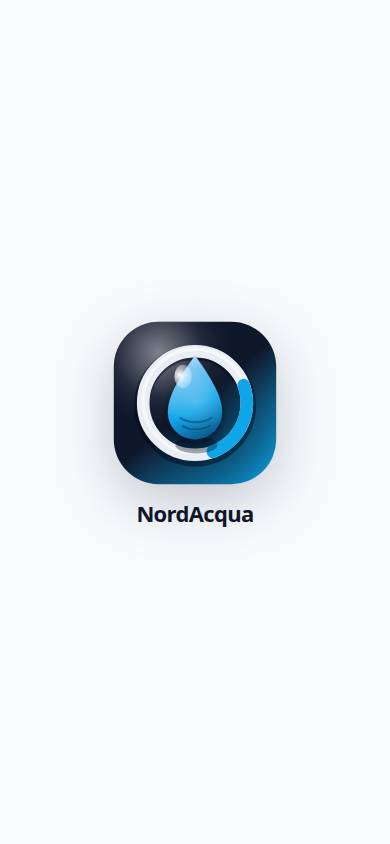
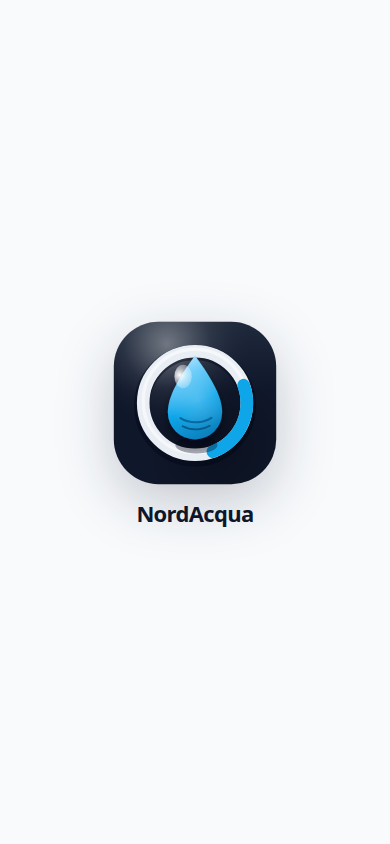
feat: punch v4 campo materials toward official water tokens
Richer sky wash, electric tank gloss, slate card shadows, navy mark plate, and recaptured apple-craft-v4 proofs. No main deploy.

diff --git a/src/lib/ai/compose-product.ts b/src/lib/ai/compose-product.ts
@@ -1129,10 +1129,11 @@ function productChromeCss(): string {
 .app-mark svg[data-fenix-premium-mark]{width:44px;height:44px;display:block}
 html[data-grammar="ops-desk"] .table-wrap thead th{background:color-mix(in srgb,var(--accent) 10%,var(--surface));color:var(--accent);font-weight:650}
 html[data-fenix-campo]{--navy:var(--inverse);--water:var(--brand);--ok-loud:var(--ok)}
-html[data-fenix-campo],html[data-fenix-campo] body{background:var(--surface-2);color:var(--on-surface)}
+html[data-fenix-campo],html[data-fenix-campo] body{background-color:var(--surface-2);background-image:radial-gradient(120% 56% at 50% -12%,var(--brand-soft) 0%,transparent 58%);color:var(--on-surface)}
 html[data-fenix-campo] header{position:sticky;top:0;z-index:6;padding:12px 16px 10px;background:color-mix(in srgb,var(--surface) 78%,transparent);-webkit-backdrop-filter:saturate(1.6) blur(16px);backdrop-filter:saturate(1.6) blur(16px)}
 html[data-fenix-campo]:has(nav.tabs button:first-child.on) header{display:none}
-html[data-fenix-campo] nav.tabs{background:color-mix(in srgb,var(--surface) 82%,transparent);-webkit-backdrop-filter:saturate(1.8) blur(18px);backdrop-filter:saturate(1.8) blur(18px)}
+html[data-fenix-campo] nav.tabs{background:color-mix(in srgb,var(--surface) 88%,transparent);border-top:1px solid var(--border,var(--line));box-shadow:0 -8px 24px rgba(15,23,42,.06);-webkit-backdrop-filter:saturate(1.8) blur(18px);backdrop-filter:saturate(1.8) blur(18px)}
+html[data-fenix-campo][data-grammar="phone-seed"] nav.tabs button.on{background:transparent;color:var(--brand);border-radius:0}
 html[data-fenix-campo] .home-hero{background:transparent;border:0;box-shadow:none;padding:0}
 html[data-fenix-campo] .home-aside,html[data-fenix-campo] .home-recent{display:none}
 html[data-fenix-campo] .home-count,html[data-fenix-campo] .home-hero>.btn{position:absolute;width:1px;height:1px;overflow:hidden;clip:rect(0 0 0 0)}
@@ -1143,25 +1144,26 @@ html[data-fenix-campo] .fx-role{margin:4px 0 0;font:500 var(--fx-t-14)/1.3 var(-
 html[data-fenix-campo] .fx-date{margin:0 0 16px;font:500 var(--fx-t-14)/1.3 var(--body),system-ui,sans-serif;color:color-mix(in srgb,var(--on-surface) 48%,#94a3b8)}
 html[data-fenix-campo] .fx-exit{width:40px;height:40px;border:0;border-radius:50%;background:var(--brand-soft);color:var(--brand-2);display:grid;place-items:center;flex:0 0 40px}
 html[data-fenix-campo] .fx-exit svg{width:18px;height:18px}
-html[data-fenix-campo] .fx-inverse{margin:0 0 12px;padding:16px 16px 14px;border-radius:var(--fx-r3);background:var(--inverse);color:#f8fafc;box-shadow:var(--shadow-card)}
-html[data-fenix-campo] .fx-hero{box-shadow:var(--shadow-float);background:linear-gradient(180deg,color-mix(in srgb,#1e293b 52%,var(--inverse)) 0%,var(--inverse) 32%)}
+html[data-fenix-campo] .fx-inverse{margin:0 0 12px;padding:18px 16px 16px;border-radius:24px;background:var(--inverse);color:#f8fafc;box-shadow:var(--shadow-card),inset 0 1px 0 rgba(255,255,255,.08)}
+html[data-fenix-campo] .fx-hero{box-shadow:var(--shadow-float),inset 0 1px 0 rgba(255,255,255,.1);background:linear-gradient(180deg,color-mix(in srgb,#1e293b 42%,var(--inverse)) 0%,var(--inverse) 36%)}
 html[data-fenix-campo] .fx-shell-kicker{margin:0 0 12px;font:650 var(--fx-t-14)/1.3 var(--body),system-ui,sans-serif;letter-spacing:-.01em;color:color-mix(in srgb,#f8fafc 78%,transparent)}
 html[data-fenix-campo] .fx-inverse .fx-board,html[data-fenix-campo] .fx-inverse .fx-tank{background:transparent;color:inherit;margin:0;padding:0;border-radius:0;box-shadow:none}
 html[data-fenix-campo] .fx-inverse .fx-board{display:grid;grid-template-columns:1fr 1fr;gap:8px}
-html[data-fenix-campo] .fx-inverse .fx-cell{padding:12px;border-radius:var(--fx-r2);min-height:72px;background:var(--tile);border:0}
-html[data-fenix-campo] .fx-inverse .fx-cell b{color:#fff;font-size:var(--fx-t-20)}
+html[data-fenix-campo] .fx-inverse .fx-cell{padding:12px;border-radius:var(--fx-r2);min-height:72px;background:var(--tile);border:0;box-shadow:inset 0 1px 0 rgba(255,255,255,.06)}
+html[data-fenix-campo] .fx-inverse .fx-cell b{color:#fff;font:750 var(--fx-t-24)/1.05 var(--display),system-ui,sans-serif;letter-spacing:-.03em}
 html[data-fenix-campo] .fx-inverse .fx-cell span{color:color-mix(in srgb,#f8fafc 70%,transparent)}
 html[data-fenix-campo] .fx-inverse .fx-cell[data-warn] b{color:var(--warn)}
 html[data-fenix-campo] .fx-toggle{display:flex;margin:0 0 14px;padding:4px;border-radius:var(--fx-pill);background:rgba(255,255,255,.1);border:0;overflow:hidden}
 html[data-fenix-campo] .fx-toggle button{flex:1;border:0;background:transparent;color:color-mix(in srgb,#f8fafc 78%,transparent);min-height:36px;border-radius:var(--fx-pill);font:650 var(--fx-t-14)/1.2 var(--body),system-ui,sans-serif}
 html[data-fenix-campo] .fx-toggle button.on{background:#fff;color:var(--inverse)}
 html[data-fenix-campo] .fx-tank-frame{display:grid;grid-template-columns:minmax(0,1fr) 28px;gap:8px;align-items:stretch}
-html[data-fenix-campo] .fx-tank-well{height:168px;border-radius:var(--fx-r3);overflow:hidden;background:rgba(2,8,20,.38);border:1.5px solid color-mix(in srgb,#fff 30%,transparent);box-shadow:inset 0 1px 0 color-mix(in srgb,#fff 26%,transparent),inset 0 -10px 18px rgba(2,8,20,.18)}
+html[data-fenix-campo] .fx-tank-well{height:164px;border-radius:var(--fx-r3);overflow:hidden;background:rgba(2,8,20,.38);border:1.5px solid color-mix(in srgb,#fff 32%,transparent);box-shadow:inset 0 1px 0 color-mix(in srgb,#fff 28%,transparent),inset 0 -10px 18px rgba(2,8,20,.18)}
+html[data-fenix-campo] .fx-tank-well::after{content:"";position:absolute;left:10%;right:22%;top:6%;height:34%;border-radius:999px;background:radial-gradient(ellipse at 50% 0,rgba(255,255,255,.42),transparent 72%);pointer-events:none}
 html[data-fenix-campo] .fx-tank-grid{position:absolute;inset:0;background:repeating-linear-gradient(to bottom,transparent 0 24%,color-mix(in srgb,#fff 16%,transparent) 24% calc(24% + 1px));pointer-events:none}
-html[data-fenix-campo] .fx-tank-well i{background:linear-gradient(180deg,var(--brand-3) 0%,var(--brand) 42%,var(--brand-2) 100%);box-shadow:inset 0 14px 22px color-mix(in srgb,#fff 28%,transparent),0 -8px 16px color-mix(in srgb,var(--brand) 35%,transparent)}
-html[data-fenix-campo] .fx-tank-well b{color:#fff;font-size:var(--fx-t-display);text-shadow:0 1px 0 rgba(15,23,42,.35)}
+html[data-fenix-campo] .fx-tank-well i{background:linear-gradient(180deg,var(--brand-3) 0%,var(--brand) 46%,var(--brand-2) 100%);box-shadow:inset 0 16px 24px color-mix(in srgb,#fff 30%,transparent),0 -10px 18px color-mix(in srgb,var(--brand) 38%,transparent)}
+html[data-fenix-campo] .fx-tank-well b{color:#fff;font-size:var(--fx-t-display);text-shadow:0 1px 0 rgba(15,23,42,.35);z-index:1}
 html[data-fenix-campo] .fx-axis{list-style:none;margin:0;padding:2px 0;display:flex;flex-direction:column;justify-content:space-between;font:650 10px/1 var(--body),system-ui,sans-serif;color:color-mix(in srgb,#f8fafc 62%,transparent);text-align:right}
-html[data-fenix-campo] .fx-ok{display:flex;margin:12px 0 0;width:100%;background:#10B981;color:#fff;border-radius:var(--fx-pill);min-height:40px;box-shadow:0 8px 18px color-mix(in srgb,#10B981 32%,transparent)}
+html[data-fenix-campo] .fx-ok{display:flex;margin:12px 0 0;width:100%;background:#10B981;color:#fff;border-radius:var(--fx-pill);min-height:42px;font:700 14px/1.2 var(--body),system-ui,sans-serif;box-shadow:inset 0 1px 0 rgba(255,255,255,.28),0 8px 18px color-mix(in srgb,#10B981 34%,transparent)}
 html[data-fenix-campo] .fx-pills{position:sticky;top:0;z-index:3;padding:2px 0;background:color-mix(in srgb,var(--surface-2) 88%,transparent)}
 html[data-fenix-campo] .fx-pill,html[data-fenix-campo] .fx-filter{border-width:1.5px;border-color:var(--border,var(--line));background:var(--surface);color:var(--on-surface)}
 html[data-fenix-campo] .fx-pill.on,html[data-fenix-campo] .fx-filter.on{background:var(--brand);color:#fff;border-color:var(--brand)}

diff --git a/src/lib/projects/premium-mark.ts b/src/lib/projects/premium-mark.ts
@@ -26,14 +26,14 @@ export function glossyWaterMarkSvg(id: string, colors: PremiumMarkColors): strin
   const track = "#E8EEF4";
   return `<svg viewBox="0 0 120 120" width="120" height="120" role="img" aria-hidden="true" data-craft-app="1" data-fenix-premium-mark="1" data-fenix-water-mark="1" overflow="visible">
 <defs>
-  <linearGradient id="wm-plate-${uid}" x1="16" y1="6" x2="108" y2="118" gradientUnits="userSpaceOnUse">
-    <stop offset="0" stop-color="${fg}"/>
-    <stop offset=".48" stop-color="${fg}"/>
-    <stop offset="1" stop-color="${accent}"/>
+  <linearGradient id="wm-plate-${uid}" x1="60" y1="4" x2="60" y2="118" gradientUnits="userSpaceOnUse">
+    <stop offset="0" stop-color="#1E293B"/>
+    <stop offset=".42" stop-color="${fg}"/>
+    <stop offset="1" stop-color="${fg}"/>
   </linearGradient>
-  <radialGradient id="wm-sheen-${uid}" cx="34" cy="24" r="58" gradientUnits="userSpaceOnUse">
-    <stop offset="0" stop-color="${lift}" stop-opacity=".46"/>
-    <stop offset=".55" stop-color="${lift}" stop-opacity=".08"/>
+  <radialGradient id="wm-sheen-${uid}" cx="40" cy="18" r="62" gradientUnits="userSpaceOnUse">
+    <stop offset="0" stop-color="${lift}" stop-opacity=".38"/>
+    <stop offset=".5" stop-color="${lift}" stop-opacity=".08"/>
     <stop offset="1" stop-color="${fg}" stop-opacity="0"/>
   </radialGradient>
   <radialGradient id="wm-well-${uid}" cx="78" cy="92" r="54" gradientUnits="userSpaceOnUse">
@@ -41,10 +41,10 @@ export function glossyWaterMarkSvg(id: string, colors: PremiumMarkColors): strin
     <stop offset="1" stop-color="#000" stop-opacity="0"/>
   </radialGradient>
   <linearGradient id="wm-drop-${uid}" x1="44" y1="24" x2="80" y2="94" gradientUnits="userSpaceOnUse">
-    <stop offset="0" stop-color="#D6F1FF"/>
-    <stop offset=".22" stop-color="#7EC8F2"/>
-    <stop offset=".55" stop-color="${accent}"/>
-    <stop offset="1" stop-color="#052A52"/>
+    <stop offset="0" stop-color="#E0F2FE"/>
+    <stop offset=".2" stop-color="#7DD3FC"/>
+    <stop offset=".52" stop-color="${accent}"/>
+    <stop offset="1" stop-color="#0369A1"/>
   </linearGradient>
   <radialGradient id="wm-spec-${uid}" cx="49" cy="40" r="14" gradientUnits="userSpaceOnUse">
     <stop offset="0" stop-color="#fff" stop-opacity="1"/>

diff --git a/src/lib/projects/craft-tokens.ts b/src/lib/projects/craft-tokens.ts
@@ -96,5 +96,5 @@ export function surfacesFromPalette(palette: EnginePalette, water = false): Craf
 
 /** CSS custom properties. Uses craft slot names, not Apple SET. */
 export function craftTokenCss(s: CraftSurfaces): string {
-  return `--on-surface:${s.onSurface};--surface-2:${s.surfaceSecondary};--surface-3:${s.surfaceTertiary};--inverse:${s.surfaceInverse};--brand:${s.brand};--brand-2:${s.brandPrimary};--brand-3:${s.brandSecondary};--brand-soft:${s.brandTertiary};--ok:${s.success};--warn:${s.warning};--err:${s.error};--tile:rgba(255,255,255,.08);--shadow-card:0 8px 24px rgba(15,23,42,.08);--shadow-float:0 12px 28px color-mix(in srgb,${s.brandPrimary} 28%,transparent);--fx-r1:${CRAFT_RADIUS.sm}px;--fx-r2:${CRAFT_RADIUS.md}px;--fx-r3:${CRAFT_RADIUS.lg}px;--fx-pill:${CRAFT_RADIUS.pill}px;--fx-s1:${CRAFT_SPACE[1]}px;--fx-s2:${CRAFT_SPACE[2]}px;--fx-s3:${CRAFT_SPACE[3]}px;--fx-s4:${CRAFT_SPACE[4]}px;--fx-s5:${CRAFT_SPACE[5]}px;--fx-s6:${CRAFT_SPACE[6]}px;--fx-s7:${CRAFT_SPACE[7]}px;--fx-t-12:${CRAFT_FONT.caption}px;--fx-t-14:${CRAFT_FONT.body}px;--fx-t-16:${CRAFT_FONT.callout}px;--fx-t-20:${CRAFT_FONT.title}px;--fx-t-24:${CRAFT_FONT.title2}px;--fx-t-display:${CRAFT_FONT.display}px`;
+  return `--on-surface:${s.onSurface};--surface-2:${s.surfaceSecondary};--surface-3:${s.surfaceTertiary};--inverse:${s.surfaceInverse};--brand:${s.brand};--brand-2:${s.brandPrimary};--brand-3:${s.brandSecondary};--brand-soft:${s.brandTertiary};--ok:${s.success};--warn:${s.warning};--err:${s.error};--tile:rgba(255,255,255,.08);--shadow-card:0 1px 2px rgba(15,23,42,.05),0 10px 28px rgba(15,23,42,.10);--shadow-float:0 12px 32px color-mix(in srgb,${s.brandPrimary} 30%,transparent);--fx-r1:${CRAFT_RADIUS.sm}px;--fx-r2:${CRAFT_RADIUS.md}px;--fx-r3:${CRAFT_RADIUS.lg}px;--fx-pill:${CRAFT_RADIUS.pill}px;--fx-s1:${CRAFT_SPACE[1]}px;--fx-s2:${CRAFT_SPACE[2]}px;--fx-s3:${CRAFT_SPACE[3]}px;--fx-s4:${CRAFT_SPACE[4]}px;--fx-s5:${CRAFT_SPACE[5]}px;--fx-s6:${CRAFT_SPACE[6]}px;--fx-s7:${CRAFT_SPACE[7]}px;--fx-t-12:${CRAFT_FONT.caption}px;--fx-t-14:${CRAFT_FONT.body}px;--fx-t-16:${CRAFT_FONT.callout}px;--fx-t-20:${CRAFT_FONT.title}px;--fx-t-24:${CRAFT_FONT.title2}px;--fx-t-display:${CRAFT_FONT.display}px`;
 }

diff --git a/docs/checkpoints/2026-09-05/apple-craft-v4/APPLE-CRAFT-V4-2026-09-05.md b/docs/checkpoints/2026-09-05/apple-craft-v4/APPLE-CRAFT-V4-2026-09-05.md
@@ -4,7 +4,7 @@ Fourth visual raise on `cursor/apple-like-visual-craft-b7e4` (PR #2). Still **no
 
 Andrea exported the real AcquaGt Expo/RN theme. We distilled **reusable craft slots** into Fenix. We did **not** copy Firebase, business logic, or copyrighted bitmaps. NordAcqua proofs are the same product family, not a pixel-identical AcquaGt reskin for every Fenix app.
 
-- `01-home.png` — surfaceSecondary page, greeting-first Home (no Ciao), two `surfaceInverse` cards, tile overlays, white active tank chip, electric fill, success `#10B981` in the 390×844 frame
+- `01-home.png` — surfaceSecondary page with a brand-soft sky wash, greeting-first Home (no Ciao), two `surfaceInverse` cards, large liter figures, white active tank chip, electric `#0EA5E9`/`#0284C7` fill, success `#10B981` in the 390×844 frame
 - `02-gestione.png` — admin metric/list chrome, sticky pills, official border/success
 - `03-storico.png` — card-row shadow tier, brand name, status chips
 - `04-statistiche.png` — brandPrimary bars on surfaceTertiary, 2×3 grid

diff --git a/APPLE-CRAFT-V4-2026-09-05.md b/APPLE-CRAFT-V4-2026-09-05.md
@@ -6,7 +6,7 @@ Andrea exported the real AcquaGt Expo/RN theme. We distilled **reusable craft sl
 
 `docs/checkpoints/2026-09-05/apple-craft-v4/`
 
-- `01-home.png` — surfaceSecondary page, greeting-first Home (no Ciao), two `surfaceInverse` cards, tile overlays, white active tank chip, electric fill, success `#10B981` in the 390×844 frame
+- `01-home.png` — surfaceSecondary page with a brand-soft sky wash, greeting-first Home (no Ciao), two `surfaceInverse` cards, large liter figures, white active tank chip, electric `#0EA5E9`/`#0284C7` fill, success `#10B981` in the 390×844 frame
 - `02-gestione.png` — admin metric/list chrome, sticky pills, official border/success
 - `03-storico.png` — card-row shadow tier, brand name, status chips
 - `04-statistiche.png` — brandPrimary bars on surfaceTertiary, 2×3 grid
